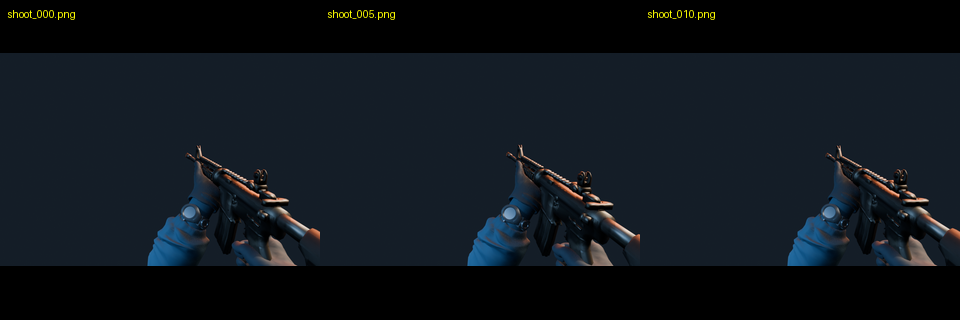
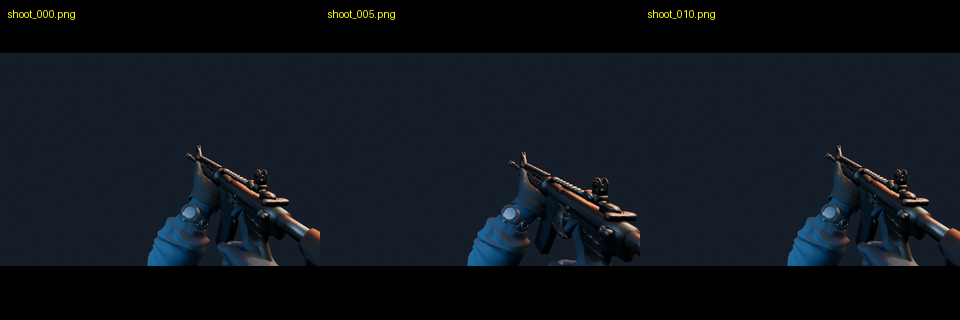
docs: registrar QA visual do piloto M4
Agent: Codex

Changed region(s): [[0.5312, 0.4688, 0.6875, 0.8438], [0.2188, 0.625, 0.3125, 0.8438], [0.875, 0.6562, 0.9688, 0.8438]]

diff --git a/artifacts/viewmodels/coro-auto/m4-pilot/browser-qa/index.html b/artifacts/viewmodels/coro-auto/m4-pilot/browser-qa/index.html
@@ -1,0 +1,58 @@
+<!doctype html>
+<html lang="pt-BR">
+<head>
+  <meta charset="utf-8">
+  <meta name="viewport" content="width=device-width,initial-scale=1">
+  <title>M4 pilot browser QA</title>
+  <style>
+    html,body{margin:0;height:100%;background:#07111d;color:#dce9f7;font:14px system-ui;overflow:hidden}
+    canvas{display:block;width:100%;height:100%}
+    #panel{position:fixed;left:16px;top:16px;padding:12px;background:#07111ddd;border:1px solid #31506d;border-radius:8px;z-index:2}
+    button,input{margin:4px} #status{color:#8ed5ff}
+  </style>
+  <script type="importmap">{"imports":{"three":"/public/vendor/three.module.js"}}</script>
+</head>
+<body>
+  <div id="panel">
+    <div id="status">carregando GLB…</div>
+    <button data-clip="Idle">Idle</button><button data-clip="Shoot">Shoot</button><button data-clip="Reload">Reload</button><button id="pause">Pausar</button>
+    <label>tempo <input id="time" type="range" min="0" max="1" step="0.05" value="0"></label>
+    <span id="readout">0.000 s</span>
+  </div>
+  <script type="module">
+    import * as THREE from 'three';
+    import {GLTFLoader} from '/public/vendor/addons/loaders/GLTFLoader.js';
+    const renderer=new THREE.WebGLRenderer({antialias:true,preserveDrawingBuffer:true});
+    renderer.setPixelRatio(Math.min(devicePixelRatio,2)); renderer.setSize(innerWidth,innerHeight); renderer.outputColorSpace=THREE.SRGBColorSpace;
+    renderer.toneMapping=THREE.ACESFilmicToneMapping; renderer.toneMappingExposure=1.75;
+    document.body.appendChild(renderer.domElement);
+    const scene=new THREE.Scene(); scene.background=new THREE.Color(0x07111d);
+    scene.add(new THREE.AmbientLight(0xb9dcff,2.4));
+    scene.add(new THREE.HemisphereLight(0xf0f7ff,0x59432c,3.8));
+    const key=new THREE.DirectionalLight(0xffd4a8,4.2); key.position.set(-2,-1,4); scene.add(key);
+    let camera=new THREE.PerspectiveCamera(58,innerWidth/innerHeight,.03,100);
+    let mixer,active,clips={}; const clock=new THREE.Clock(); let scrubbing=false,paused=false;
+    window.qa={loaded:false,current:null,time:0,duration:0,clips:[]};
+    function choose(name){
+      if(!clips[name])return; if(active)active.stop(); active=mixer.clipAction(clips[name]); active.reset().play();
+      window.qa.current=name; window.qa.duration=clips[name].duration; document.querySelector('#time').value='0';
+      document.querySelector('#status').textContent=`${name} — ${clips[name].duration.toFixed(3)} s`;
+    }
+    new GLTFLoader().load('/public/models/viewmodels/coro-auto/m4-pilot.glb',gltf=>{
+      scene.add(gltf.scene); mixer=new THREE.AnimationMixer(gltf.scene); gltf.animations.forEach(c=>clips[c.name]=c);
+      if(gltf.cameras.length){camera=gltf.cameras[0]; camera.aspect=innerWidth/innerHeight; camera.updateProjectionMatrix()}
+      const headlight=new THREE.PointLight(0xffffff,18,8,1.5); headlight.position.set(0,0,0); camera.add(headlight);
+      window.qa.loaded=true; window.qa.clips=Object.keys(clips); choose('Idle');
+    },undefined,error=>{document.querySelector('#status').textContent=String(error);window.qa.error=String(error)});
+    document.querySelectorAll('button').forEach(button=>button.onclick=()=>choose(button.dataset.clip));
+    document.querySelector('#pause').onclick=event=>{paused=!paused;event.currentTarget.textContent=paused?'Retomar':'Pausar'};
+    const slider=document.querySelector('#time');
+    slider.addEventListener('pointerdown',()=>scrubbing=true); slider.addEventListener('pointerup',()=>scrubbing=false);
+    slider.addEventListener('input',()=>{if(active){active.time=Number(slider.value)*active.getClip().duration;mixer.update(0)}});
+    function frame(){requestAnimationFrame(frame);const dt=Math.min(clock.getDelta(),.05);if(mixer&&!scrubbing&&!paused)mixer.update(dt);
+      if(active){window.qa.time=active.time;slider.value=String(active.time/active.getClip().duration);document.querySelector('#readout').textContent=`${active.time.toFixed(3)} s`}
+      renderer.render(scene,camera)} frame();
+    addEventListener('resize',()=>{renderer.setSize(innerWidth,innerHeight);camera.aspect=innerWidth/innerHeight;camera.updateProjectionMatrix()});
+  </script>
+</body>
+</html>

diff --git a/artifacts/viewmodels/coro-auto/m4-pilot/visual_qa.md b/artifacts/viewmodels/coro-auto/m4-pilot/visual_qa.md
@@ -1,44 +1,70 @@
 # M4 automatic-family pilot — visual QA
 
-Decision: **pilot generated; propagation rejected**.
+Decision: **reworked pilot submitted for review; family propagation remains blocked**.
 
-The three contact sheets were inspected at 3:2 after the second build. The
-first build was rejected because the M4's muzzle axis was reversed relative to
-the rifle rig; the corrected build is the evidence retained here.
+The current GLB, the fire/reload contact sheets, and the four paused browser
+states below were inspected after the hand-contact and recoil rework. Passing
+the numeric contract does not approve the pilot by itself.
 
-## Idle
+## Idle and strong-hand contract
 
-- Subject dominance and framing: pass. The weapon stays in the lower-right
-  play area and does not cover the center.
-- Silhouette stability: pass across frames 0, 40 and 80.
-- Two-hand contact: partial. The support hand wraps the handguard. The firing
-  fingertips reach the trigger/grip region, but the palm heel is not fully
-  seated around the M4 pistol grip.
+- The right/dominant palm is seated on the pistol grip and the index finger
+  remains aligned with the trigger region.
+- The dominant hand stays registered to `Rifle_metarig`: maximum exported
+  drift is 0 m in Idle, 0.0000197 m in Shoot, and 0.0015986 m / 0.24708 degrees
+  in Reload.
+- The support hand returns to the handguard in the final reload pose.
 
 ## Fire
 
-- Motion coherence: pass. Recoil is restrained and returns to the idle pose.
-- Framing and silhouette: pass in frames 0, 5 and 10.
-- Contact: partial for the same firing-palm gap seen in idle.
+- The retained contact sheet shows rest, peak, and return at frames 0/5/10.
+- Exported rifle recoil reaches 0.058732 m and 3.41463 degrees, then returns to
+  0 m / 0 degrees at frame 10. This is short but visually distinguishable.
+- Both hands remain registered to the weapon during recoil. Support-hand drift
+  relative to the rifle is at most 0.001805 m / 0.20174 degrees.
+- The contact-sheet analyzer reports no warnings; mean RGB differences are
+  4.5227 from rest to peak and 4.5156 from peak to return.
 
-## Reload
+## Reload browser evidence
 
-- Motion is present and the action returns to the idle pose.
-- Frames 48–60 show the support hand approaching the replacement magazine and
-  receiver, but the intermediate magazine travel is not continuously held.
-- Frame 60 is tightly cropped and loses clear separation between hand,
-  magazine and receiver.
-- Result: fail for propagation. Retarget the support-hand/magazine interval and
-  seat the firing palm before using this registration on another rifle or SMG.
+Viewer URL:
+`http://127.0.0.1:8877/artifacts/viewmodels/coro-auto/m4-pilot/browser-qa/index.html`
 
-## Export truth
+The viewer uses the exported GLB and its embedded camera. A camera-relative
+headlight and increased exposure are QA-only, so the dark magazine remains
+legible without changing the distributable asset.
 
-- GLB contains `Idle`, `Shoot` and `Reload` actions.
-- Export selection contains only the project M4 body/two project-M4 magazine
-  copies, project anatomy, the rig and the viewmodel camera.
-- No source weapon object, weapon material or weapon skin is selected.
-- Build-time nearest-surface readings at idle are informational only: left
-  0.000819 m, right 0.003976 m. The first rejected build proved why these
-  numbers cannot replace visual inspection.
+1. `reload-release.png` — 0.833 s / frame 20 / normalized time 0.25. The
+   magazine has released and the support hand visibly encloses it; the strong
+   hand remains on the grip/trigger.
+2. `reload-carry.png` — 1.333 s / frame 32 / normalized time 0.40. The support
+   hand visibly carries the separated magazine; the strong hand remains fixed.
+3. `reload-insert.png` — 2.167 s / frame 52 / normalized time 0.65. The support
+   hand and magazine move together on the insertion path toward the well.
+4. `reload-final.png` — 3.333 s / frame 80 / normalized time 1.00. The magazine
+   is seated, the support hand has returned to the handguard, and the dominant
+   hand remains on the pistol grip.
 
-No family propagation was performed.
+The exported support-hand/magazine relative transform drifts no more than
+0.0000012 m / 0 degrees over the sampled removal and insertion intervals.
+Nearest-surface distances remain 0.001730–0.002472 m during removal and
+0.002469–0.004933 m during insertion. These measurements support, but do not
+replace, the four visual states.
+
+## Export truth and remaining limitation
+
+- The GLB contains `Idle`, `Shoot`, and `Reload`, one armature, one camera, the
+  project hands, and only project M4 weapon objects.
+- No donor weapon object, donor weapon material, or donor weapon skin is
+  exported.
+- The original `public/models/weapons/m4.glb` welds its magazine triangles into
+  the receiver topology. The moving magazine is therefore a simplified,
+  project-authored bent prism measured from that M4 envelope. Its motion and
+  contact are readable, but its silhouette lacks the source model's detailed
+  curved magazine geometry.
+- Browser insertion becomes partly edge-on after frame 56; frame 52 is retained
+  because it most clearly shows both the carried magazine and the insertion
+  direction.
+
+No other rifle, SMG, or LMG was generated from this registration. Approval and
+family propagation remain pending external visual review.

diff --git a/tools/blender/viewmodels/coro_auto/README.md b/tools/blender/viewmodels/coro_auto/README.md
@@ -15,6 +15,19 @@ The build writes the distributable GLB to
 with the `animation-quality-gate` skill's `animation_contact_sheet.py`, using
 the matching `idle_*`, `shoot_*`, or `reload_*` frame set.
 
+Validate the exported bone registration, surface contact, and recoil envelope:
+
+```sh
+/Applications/Blender.app/Contents/MacOS/Blender \
+  --background \
+  --python tools/blender/viewmodels/coro_auto/validate_m4_pilot.py
+```
+
+For browser QA, serve the worktree root and open
+`http://127.0.0.1:8877/artifacts/viewmodels/coro-auto/m4-pilot/browser-qa/index.html`.
+The four retained reload states and their exact times are recorded in
+`browser-qa/evidence.json`.
+
 The builder reads the accepted rifle rig from the advanced source tree, deletes
 every source weapon object, then imports and splits the project's own
 `public/models/weapons/m4.glb`. It exports only the rig, project anatomy, M4
